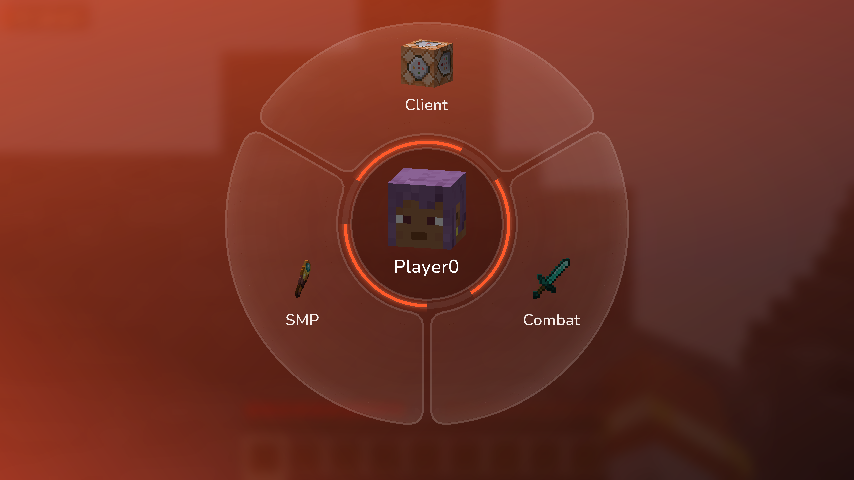
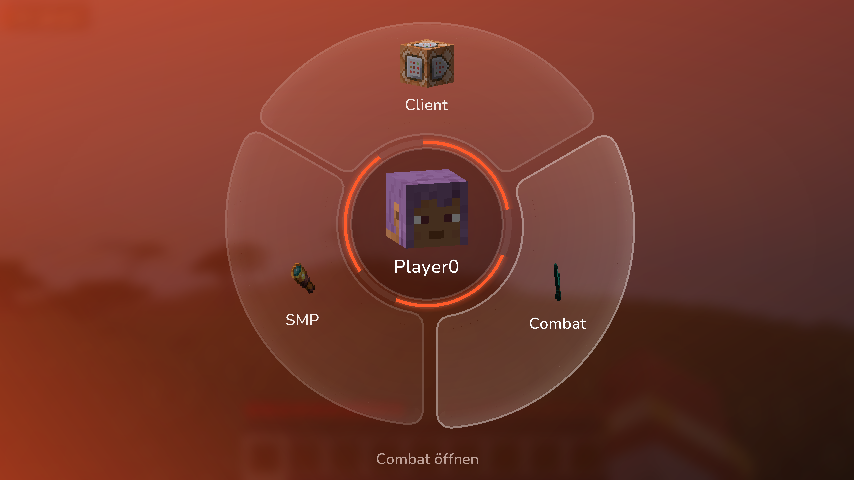
Wheel: the 3D player head looks at the mouse cursor
Yaw and pitch follow the cursor (damped like the inventory player model,
clamped to natural angles) and are smoothed every frame. The game test
takes screenshots with the cursor in different corners.

Claude-Session: https://claude.ai/code/session_01MUPP6yAn7mZPsT3PjRrRs4

diff --git a/src/main/java/dev/kraken/gui/RadialScreen.java b/src/main/java/dev/kraken/gui/RadialScreen.java
@@ -58,6 +58,8 @@ public class RadialScreen extends Screen {
 
     private static final float TAU = (float) (Math.PI * 2);
     private static final int MAX_PER_PAGE = 9;
+    // orientation of the PiP model space (verified with screenshots in the client game test)
+    private static final float YAW_SIGN = 1f, PITCH_SIGN = 1f;
 
     // ---- navigation state ------------------------------------------------------------------------
     private enum Level { CATEGORIES, MODULES, SETTINGS }
@@ -77,6 +79,8 @@ public class RadialScreen extends Screen {
     private final float[] activeAnim = new float[MAX_PER_PAGE + 8];
     private final float[] valueAnim = new float[MAX_PER_PAGE + 8];
     private float centerHover;
+    private float headYaw, headPitch;           // current (smoothed) head rotation, degrees
+    private boolean headInit;
 
     // ---- interaction -----------------------------------------------------------------------------
     private NumberSetting dragging;
@@ -423,8 +427,19 @@ public class RadialScreen extends Screen {
         if (level == Level.CATEGORIES) {
             ItemStack head = head();
             if (head != null && cSize > 0.5f) {
-                float yaw = 180f - 28f + (float) Math.sin(time * 0.9f) * 22f;
-                models.add(new WheelModelsRenderState.Model(head, cx, cy - R * 0.075f, cSize, yaw, 14f));
+                // the head always looks at the mouse cursor (like the player in the inventory)
+                float hx = cx, hy = cy - R * 0.075f;
+                float dx = mouseX - hx, dy = mouseY - hy;
+                float reach = R * 0.9f;
+                float targetYaw = (float) Math.toDegrees(Math.atan(dx / reach)) * 0.6f;
+                float targetPitch = (float) Math.toDegrees(Math.atan(dy / reach)) * 0.45f;
+                targetYaw = Math.max(-45f, Math.min(45f, targetYaw));
+                targetPitch = Math.max(-28f, Math.min(28f, targetPitch));
+                if (!headInit) { headYaw = targetYaw; headPitch = targetPitch; headInit = true; }
+                float follow = Math.min(1f, dt * 12f);
+                headYaw += (targetYaw - headYaw) * follow;
+                headPitch += (targetPitch - headPitch) * follow;
+                models.add(new WheelModelsRenderState.Model(head, hx, hy, cSize, 180f + YAW_SIGN * headYaw, PITCH_SIGN * headPitch));
             }
         } else {
             ItemStack icon = level == Level.MODULES ? category.getIcon() : module.getIcon();

diff --git a/src/gametest/java/dev/kraken/test/KrakenClientGameTest.java b/src/gametest/java/dev/kraken/test/KrakenClientGameTest.java
@@ -22,6 +22,16 @@ public class KrakenClientGameTest implements FabricClientGameTest {
             ctx.waitForScreen(RadialScreen.class);
             ctx.waitTicks(20);
             ctx.takeScreenshot("01-wheel");
+            // the head follows the cursor: look to the top-right, then to the bottom-left
+            ctx.getInput().setCursorPos(ctx.computeOnClient(c -> c.getWindow().getWidth() * 0.92), ctx.computeOnClient(c -> c.getWindow().getHeight() * 0.08));
+            ctx.waitTicks(10);
+            ctx.takeScreenshot("01b-head-top-right");
+            ctx.getInput().setCursorPos(ctx.computeOnClient(c -> c.getWindow().getWidth() * 0.08), ctx.computeOnClient(c -> c.getWindow().getHeight() * 0.92));
+            ctx.waitTicks(10);
+            ctx.takeScreenshot("01c-head-bottom-left");
+            ctx.getInput().setCursorPos(ctx.computeOnClient(c -> c.getWindow().getWidth() * 0.62), ctx.computeOnClient(c -> c.getWindow().getHeight() * 0.62));
+            ctx.waitTicks(10);
+            ctx.takeScreenshot("01d-head-combat");
 
             // hover + click "Combat" (segment 1 of 3 → 120° clockwise from the top)
             clickWheel(ctx, 120, InputConstants.MOUSE_BUTTON_LEFT, false);
